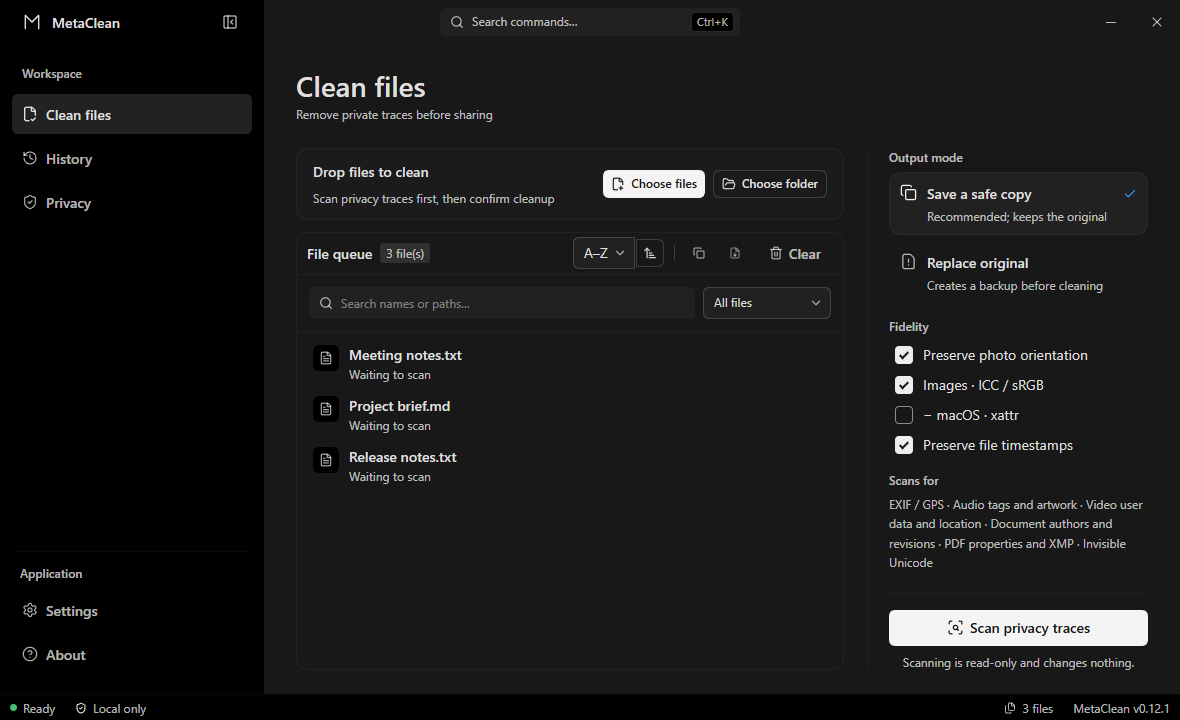
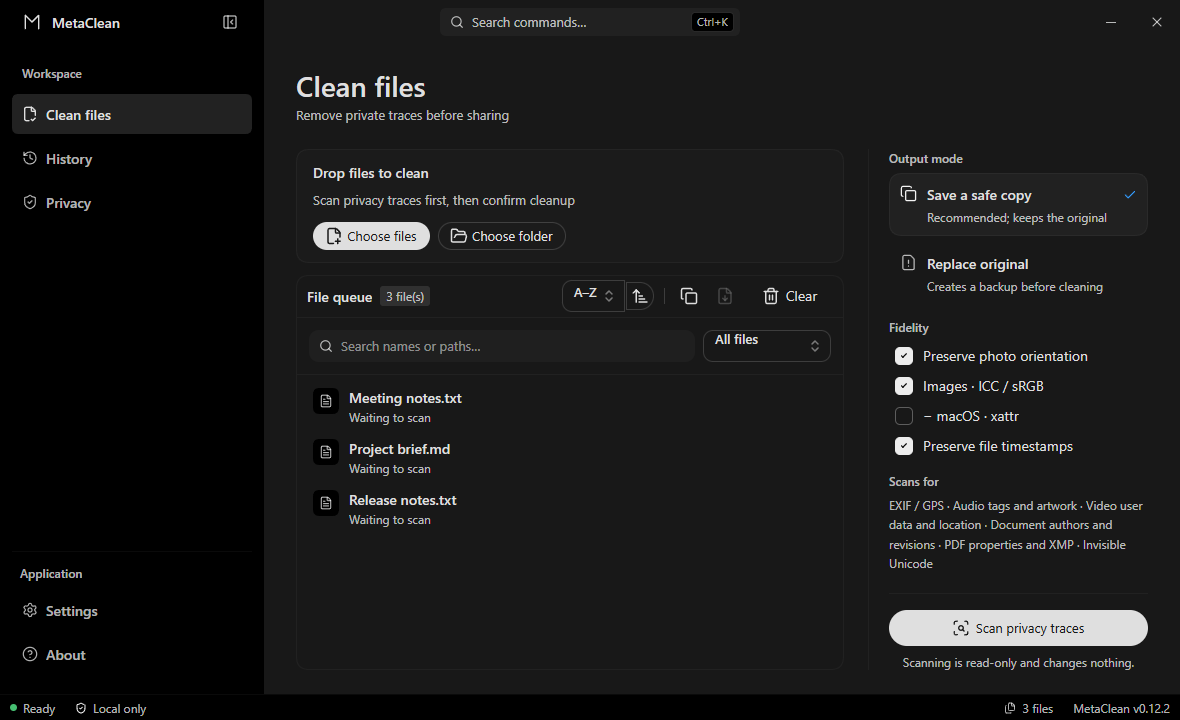
release: 准备 v0.12.2 候选与原生文档截图

diff --git a/src/styles.css b/src/styles.css
@@ -95,11 +95,10 @@
   --color-on-danger: #ffffff;
 
   --font-sans:
-    -apple-system, BlinkMacSystemFont, 'Segoe UI', system-ui,
-    'Microsoft YaHei UI', 'PingFang SC', 'Noto Sans SC', sans-serif;
+    -apple-system, BlinkMacSystemFont, 'Segoe UI', sans-serif;
   --font-display:
     var(--font-sans);
-  --font-mono: 'Cascadia Code', 'JetBrains Mono', ui-monospace, Consolas, Menlo, monospace;
+  --font-mono: ui-monospace, 'SFMono-Regular', 'SF Mono', Menlo, Consolas, 'Liberation Mono', monospace;
   --font-weight-medium: 500;
   --font-weight-semibold: 600;
   --font-ui-weight: 430;

diff --git a/release-notes/v0.12.2.md b/release-notes/v0.12.2.md
@@ -1,0 +1,35 @@
+# MetaClean v0.12.2
+
+### 新功能
+
+- Office 属性清理按包内内容类型和关系定位核心、扩展、自定义属性，支持 DOCX、XLSX、PPTX 中移动位置、URI 转义以及已覆盖的 Strict 声明。
+- 支持的浏览器渲染器为原生下拉选项提供主题浮层、选中标记与进入/退出反馈，同时保留原生选择、键盘导航和表单提交行为。
+- 新增独立 Office 保真流水线，并接入发布源代码门禁：42 个副本/替换案例验证文档内容、保留数据、精确引用、源文件和备份；7 个故意损坏的案例检查验证器是否拒绝错误结果。
+
+### 变更与安全
+
+- 根据更新后的桌面设计规则统一按钮、复选框、搜索框、下拉框、设置分段控件及菜单的尺寸、主题状态、焦点和字体回退。
+- 命令面板采用 520px 宽度上限及 92% 视口宽度，根据可用高度安排列表与位置；短视口保留垂直边距。
+- 固定开发工具依赖 `source-map-js` 1.2.2 和 `smol-toml` 1.9.0，修复源映射与 TOML 解析的拒绝服务问题，不新增审计忽略规则。
+
+### 修复与打磨
+
+- 修复仅按固定路径寻找 Office 属性导致的漏检，清空已识别属性内容并保留有效根节点和命名空间；拒绝歧义、外部或不可读取的私有属性目标。
+- 正确解析 Office 内部关系的相对路径、未保留字符转义、查询/片段和自身片段，保留原始关系文本；按实际移除的数据部件精确修剪引用，避免误删无关内容。
+- 清理未识别的 PNG 附加数据，保留已定义的图像、色彩/HDR、动画、密度和布局/校准数据；对未知关键块拒绝处理，避免假设其显示语义。
+- 修复窄正文区域中的导入内容和队列操作裁切；右键菜单挂载到文档根，保持 6px 视口边距、键盘边界导航及不滚动的回焦。
+- 修复命令面板缩小后选中项不可见，以及自动滚动时静止鼠标下方的行抢走键盘选择的问题。真实浏览器键盘、主题和 RTL 检查覆盖这些行为。
+- 补充控件状态、浮层、源码版本一致性及文档链接验证，并保留减少动画和系统强制色支持。
+
+### 安装
+
+- Windows x64 提供 NSIS、MSI 和便携 ZIP；Windows x86 提供 NSIS 和便携 ZIP。
+- macOS 提供 Apple Silicon 与 Intel DMG；Linux 提供 DEB、RPM 和 AppImage。
+- 内置更新校验签名。macOS 安装包尚未完成 Apple 签名与公证。
+
+### English summary
+
+- Discover and clear OOXML property parts through package declarations, including relocated, escaped and covered Strict targets. Resolve internal URI references while preserving original relationship text and unrelated content.
+- Remove unknown PNG ancillary payloads while retaining defined visual, color/HDR, animation, density and layout data; reject unknown critical chunks.
+- Refresh shared desktop controls, native option pickers, segmented settings, menus and platform font fallbacks. Keep command selection visible through resizing and prevent stationary-pointer entry from overriding keyboard navigation.
+- Add the 42-case independent Office fidelity gate and seven verifier regressions to CI and release validation. Patch development-only source-map and TOML denial-of-service advisories.

diff --git a/DESIGN.md b/DESIGN.md
@@ -22,7 +22,7 @@ consume the same tokens. Their content remains specific to a local file utility.
 | Brand and status | Neutral primary actions and checked controls; blue focus; green, orange and red for semantic status |
 | Text | Dark `#dfdfdf`, light `#1a1c1f`; secondary ink resolves from 70% foreground opacity |
 | Geometry | 12px panels, 6px shared control corners, 8px native-select base corners, a 24px intake surface, 1px hairlines and shared 28/32/36px pill actions |
-| Type | System UI font stack, 14px body at 430 weight with 1.5 line height, 13px small text and 500/600 emphasis; Microsoft YaHei UI, PingFang SC and Noto Sans SC fallbacks |
+| Type | System UI font stack, 14px body at 430 weight with 1.5 line height, 13px small text and 500/600 emphasis; platform sans-serif and monospace fallbacks |
 | Checkbox | 18px square, 4px base corner, theme-specific neutral borders and disabled combinations, stable selected hover and a 2px focus outline |
 | Actions | 400-weight labels with 1em line height; 13/14/13px type for 28/32/36px heights, 18px icons, default arrow cursor and separate surface feedback; icon-only actions retain 24/28px squares |
 | Selects | 32px height, 12px gutters, 500-weight 13px labels with 24px line height; transparent surface, 1px inset border, an 8×12px direction indicator and a 2px inset focus ring |
@@ -36,9 +36,10 @@ Supported renderers apply a 1.25 corner scale with `superellipse(1.5)` to
 shared panel/control shapes. Other renderers use the unscaled radius. The
 checkbox scales its 4px base corner to 5px in supported renderers and keeps
 ordinary rounded geometry. Its border, disabled fill and focus ring use
-dedicated tokens rather than text-opacity tokens. Font fallbacks are
-implementation choices; a declared stack alone does not prove which font
-renders a Chinese glyph on a particular machine.
+dedicated tokens rather than text-opacity tokens. UI and monospace stacks use
+the supplied desktop platform defaults. Generic fallbacks remain platform
+dependent; a declared stack alone does not prove which font renders a Chinese
+glyph on a particular machine.
 
 Actions follow the current component's default pill configuration. Their surfaces
 carry theme-specific normal, hover, pressed and disabled colors; labels and icons

diff --git a/VALIDATION.md b/VALIDATION.md
@@ -4,6 +4,27 @@ Last audited: 2026-10-06
 
 This file records evidence, not intent. A row is complete only when the named artifact or runtime check exists.
 
+## v0.12.2 candidate and native documentation — 2026-10-06
+
+The candidate uses the supplied desktop defaults for the platform UI and
+monospace font stacks without adding bundled font assets. Its ordinary Windows
+native build passes all 13 design and 16 workflow cases. Both English and Chinese
+documentation captures pass against the actual v0.12.2 binary. Fifteen 1180x720
+PNGs were inspected through both contact sheets and full-resolution settings and
+cleanup views; two five-frame 944x576 GIFs retain their existing frame durations.
+Version metadata and bilingual release notes are prepared, but v0.12.2 has not
+been tagged or published. The final source still requires cross-platform and
+independent file-fidelity qualification before browser-triggered publication.
+
+The preceding [CI 37441693527](https://github.com/Moresyl/metaclean/actions/runs/37441693527)
+at `6969365` passes its main, Windows and Linux jobs, including all 29 desktop
+cases on those two platforms. macOS passes the new command-panel case and all
+16 workflows, but fails the unchecked dark checkbox sample: the control reports
+enabled/unchecked and the root reports dark, while the border remains the light
+disabled value. This is not a completed cross-platform qualification. Additional
+root/control token, pseudo-state and animation diagnostics preserve the same
+color assertions so the discrepancy can be investigated on the native renderer.
+
 ## Unreleased command-panel layout and selection — 2026-10-06
 
 The supplied global command caller uses the 440px list-height override, a

diff --git a/docs/PLAN.md b/docs/PLAN.md
@@ -8,9 +8,9 @@
 | --- | --- |
 | 产品 | MetaClean：本地文件隐私清理桌面应用 |
 | 技术栈 | Rust 清理内核 + Tauri 2 + React 19 + Vite + Tailwind CSS 4 |
-| 当前包版本 | 0.12.1 |
-| 当前本地提交 | 以 `git log -1` 为准；v0.12.1 已修复关于页面窄内容区域的布局，并补充真实桌面回归检查 |
-| 发布状态 | 稳定版 v0.12.1 已于 2026-10-06（北京时间）公开发布，五平台发布门禁和六条公开验证流程通过；验证范围见 VALIDATION.md |
+| 当前包版本 | 0.12.2 |
+| 当前本地提交 | 以 `git log -1` 为准；当前候选包含 Office 属性定位与 URI 修复、PNG 数据块处理、桌面控件和命令面板更新 |
+| 发布状态 | v0.12.2 正在完成最终候选验证，尚未创建版本标签或公开发布；当前公开稳定版仍为 v0.12.1，验证范围见 VALIDATION.md |
 | 支持范围 | 116 个扩展名，Rust、前端、Windows shell、NSIS、MSI、README 与支持策略由门禁保持一致 |
 | 隐私边界 | 文件内容只在本机处理；界面、历史、剪贴板和审计导出不展示原始元数据值 |
 | 主要未闭环 | Word/新版 WPS 复杂文档兼容性、Apple 签名/公证、安装中断恢复及任意历史数据迁移、慢盘与完整应用峰值内存；已验证的更新与回退范围见 VALIDATION.md |

diff --git a/CHANGELOG.md b/CHANGELOG.md
@@ -5,6 +5,8 @@ All notable changes to MetaClean are documented here. The project follows
 
 ## [Unreleased]
 
+## [0.12.2] - 2026-10-06
+
 ### Security
 
 - Pin development-toolchain dependencies `source-map-js` to 1.2.2 and `smol-toml`
@@ -13,6 +15,8 @@ All notable changes to MetaClean are documented here. The project follows
 
 ### Changed
 
+- Use the verified desktop platform font stacks for UI and monospace text,
+  retaining system font fallback without adding bundled font assets.
 - Size the command panel within a 520px width cap and 92% of the viewport.
   Derive list height and panel position from available space, retain vertical
   margins in short viewports and keep selected commands visible after resizing.
